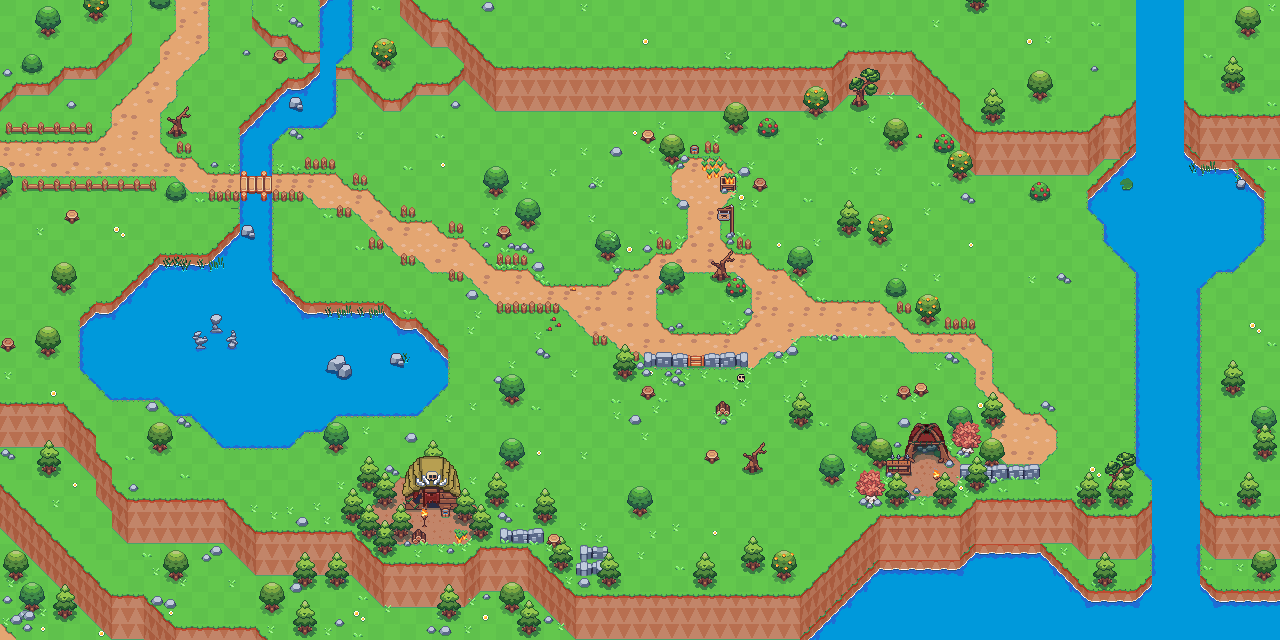
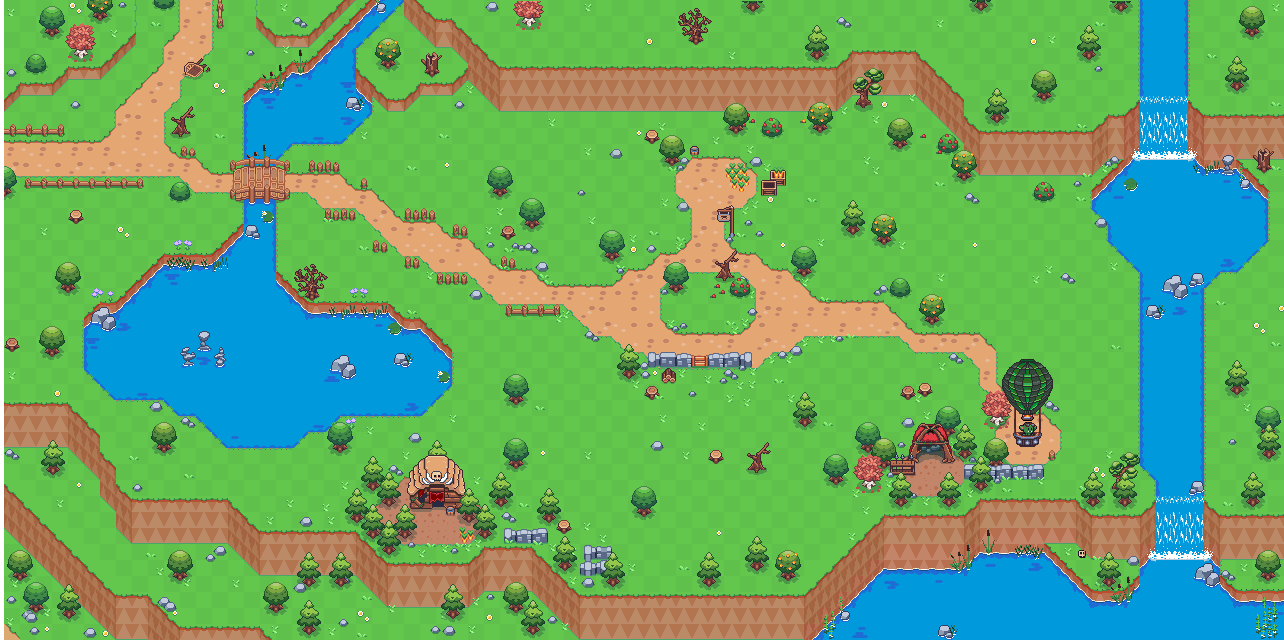
[FIX] Updated Goblin Town background (#904)
* Add new goblin land background

* Scroll back to crops after getting stolen shovel

* Update useScrollIntoView.ts

diff --git a/src/features/farming/crops/components/GoblinShovel.tsx b/src/features/farming/crops/components/GoblinShovel.tsx
@@ -10,6 +10,7 @@ import { isShovelStolen } from "features/game/events/harvest";
 import { Button } from "components/ui/Button";
 import { GRID_WIDTH_PX } from "features/game/lib/constants";
 import { recoverShovel } from "features/game/lib/harvestCountStorage";
+import { Section, useScrollIntoView } from "lib/utils/hooks/useScrollIntoView";
 
 type Position = {
   top: number;
@@ -46,6 +47,7 @@ export const GoblinShovel: React.FC = () => {
   const [showGoblin, setShowGoblin] = useState(false);
   const [goblinPosition, setGoblinPosition] = useState<Position>();
   const { gameService } = useContext(Context);
+  const [scrollIntoView] = useScrollIntoView();
 
   useEffect(() => {
     const detectGoblins = () => {
@@ -64,12 +66,17 @@ export const GoblinShovel: React.FC = () => {
     });
 
     detectGoblins();
-  }, [showGoblin]);
+  }, [gameService]);
 
   const onClickGoblin = () => {
     setShowRecoveredShovelModal(true);
     recoverShovel();
     setShowGoblin(false);
+  };
+
+  const onContinue = () => {
+    scrollIntoView(Section.Crops);
+    setShowRecoveredShovelModal(false);
   };
 
   return (
@@ -129,10 +136,7 @@ export const GoblinShovel: React.FC = () => {
           </div>
 
           <div className="flex">
-            <Button
-              className="text-sm"
-              onClick={() => setShowRecoveredShovelModal(false)}
-            >
+            <Button className="text-sm" onClick={onContinue}>
               Continue
             </Button>
           </div>

diff --git a/src/features/auth/useImagePreloader.tsx b/src/features/auth/useImagePreloader.tsx
@@ -6,6 +6,9 @@ import lightningDeath from "assets/npcs/human_death.gif";
 import minting from "assets/npcs/minting.gif";
 import richBegger from "assets/npcs/rich_begger.gif";
 import syncing from "assets/npcs/syncing.gif";
+import goblinBlacksmith from "assets/buildings/goblin_blacksmith.gif";
+import goblinTailor from "assets/buildings/goblin_tailor.png";
+import goblinBank from "assets/buildings/goblin_bank.gif";
 import background from "assets/land/background.png";
 import goblinLandBackground from "assets/land/goblin_background.png";
 import farm from "assets/brand/nft.png";
@@ -20,6 +23,9 @@ const IMAGE_LIST: string[] = [
   background,
   goblinLandBackground,
   farm,
+  goblinBlacksmith,
+  goblinTailor,
+  goblinBank,
 ];
 
 function preloadImage(src: string) {
